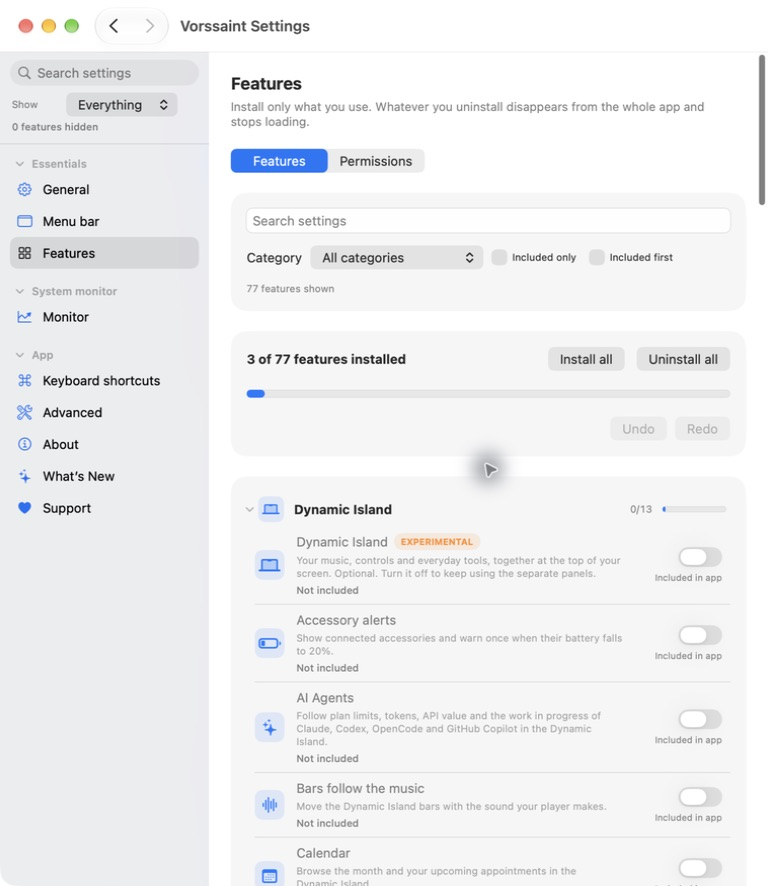
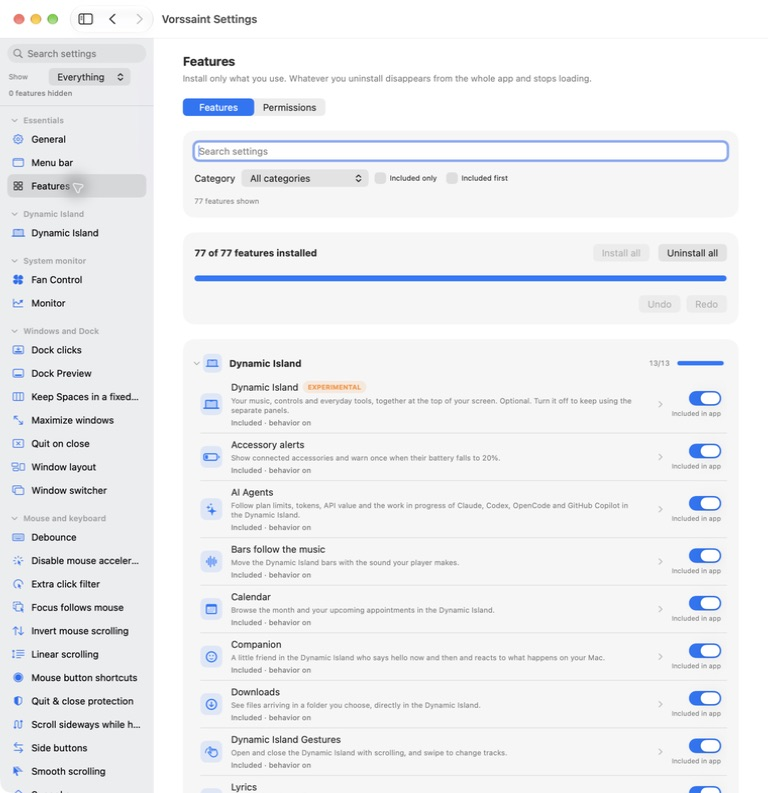
docs(settings): show full categories with all features included

Changed region(s): [[0.0, 0.0, 1.0, 1.0], [0.25, 0.3934, 0.8438, 1.0], [0.8438, 0.454, 0.9375, 1.0]]

diff --git a/docs/settings-discovery.md b/docs/settings-discovery.md
@@ -69,6 +69,14 @@ search can still find any feature. The removed setup card is shown for compariso
 
 ![Focused sidebar and Features catalog](images/settings-discovery/focused.jpg)
 
-![Everything reveals all 77 features with the same three installed](images/settings-discovery/everything.jpg)
+The Everything captures use the production Settings UI in a separate screenshot
+host with an in-memory configuration: all 77 features are included, saved behavior
+switches are on, and zero features are hidden. No background services are started
+and no existing app preferences are changed. The category overview collapses the
+feature rows to show all ten category cards together.
+
+![Everything with all 77 features included](images/settings-discovery/everything.jpg)
+
+![All ten feature categories with every feature included](images/settings-discovery/categories-overview.jpg)
 
 ![Removed setup card from the earlier layout](images/settings-discovery/removed-setup-card.png)
